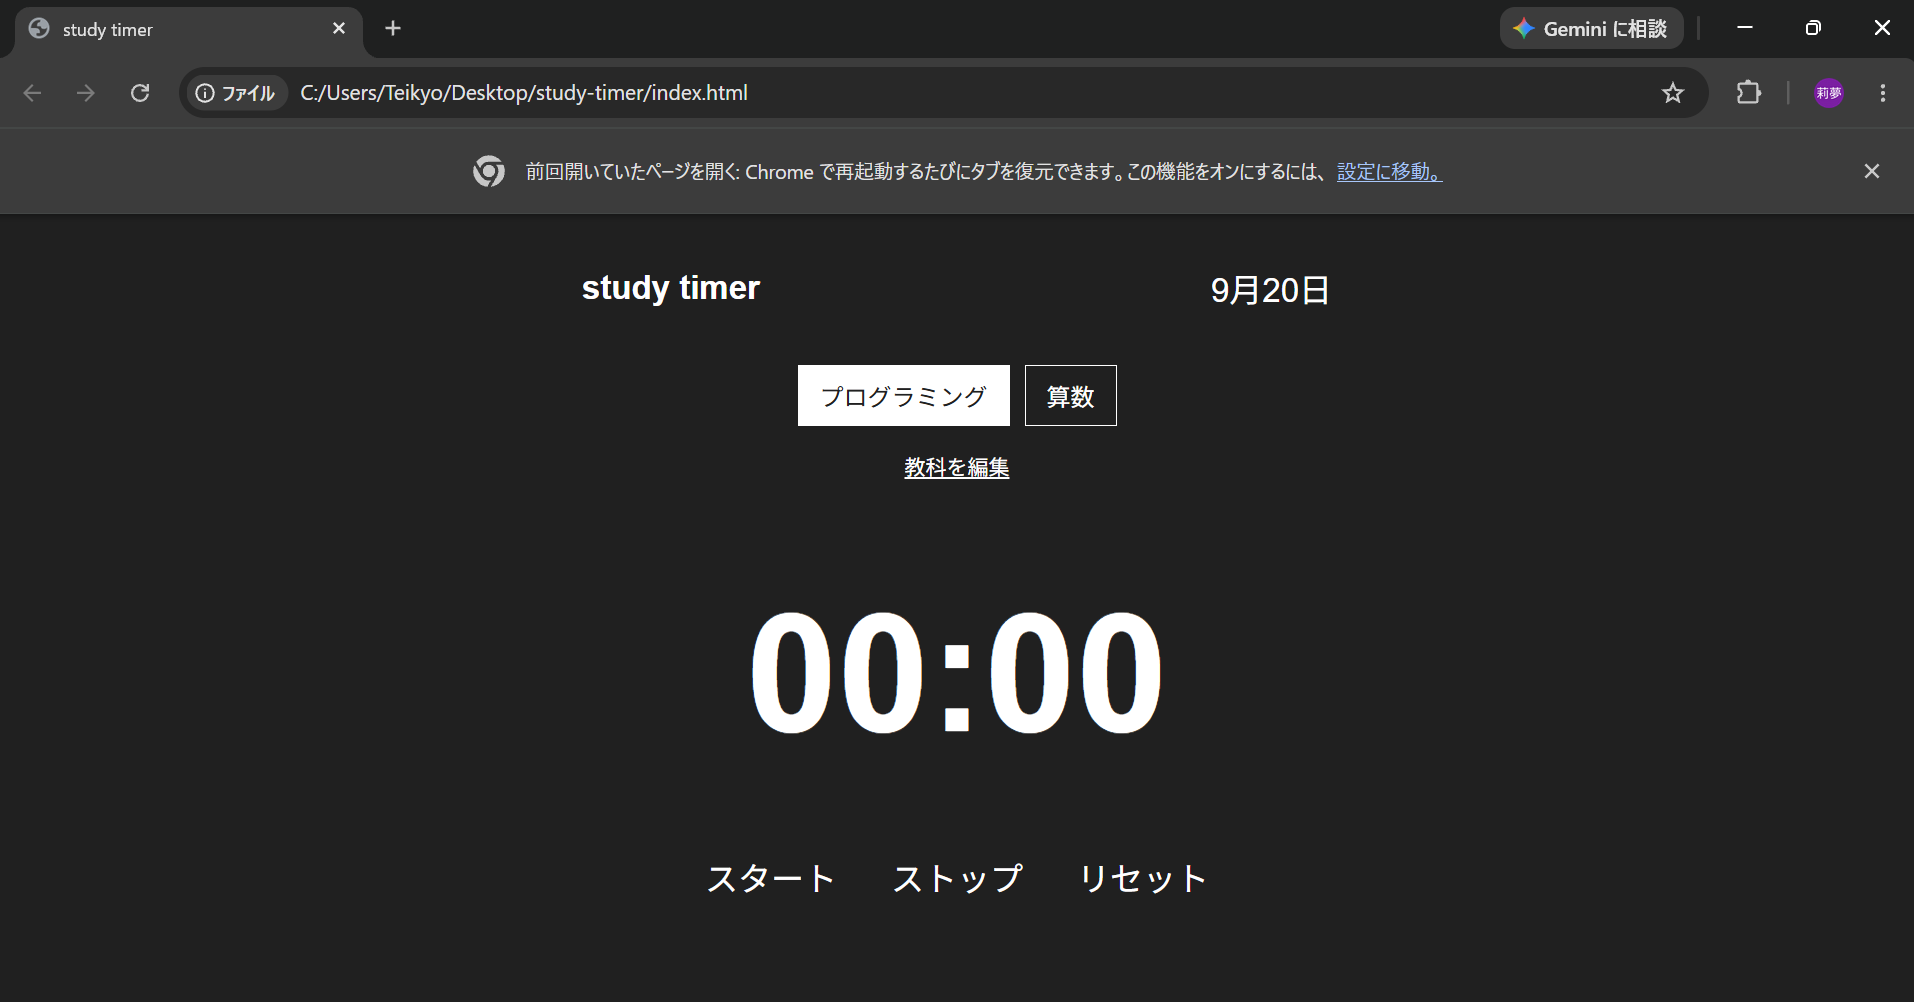
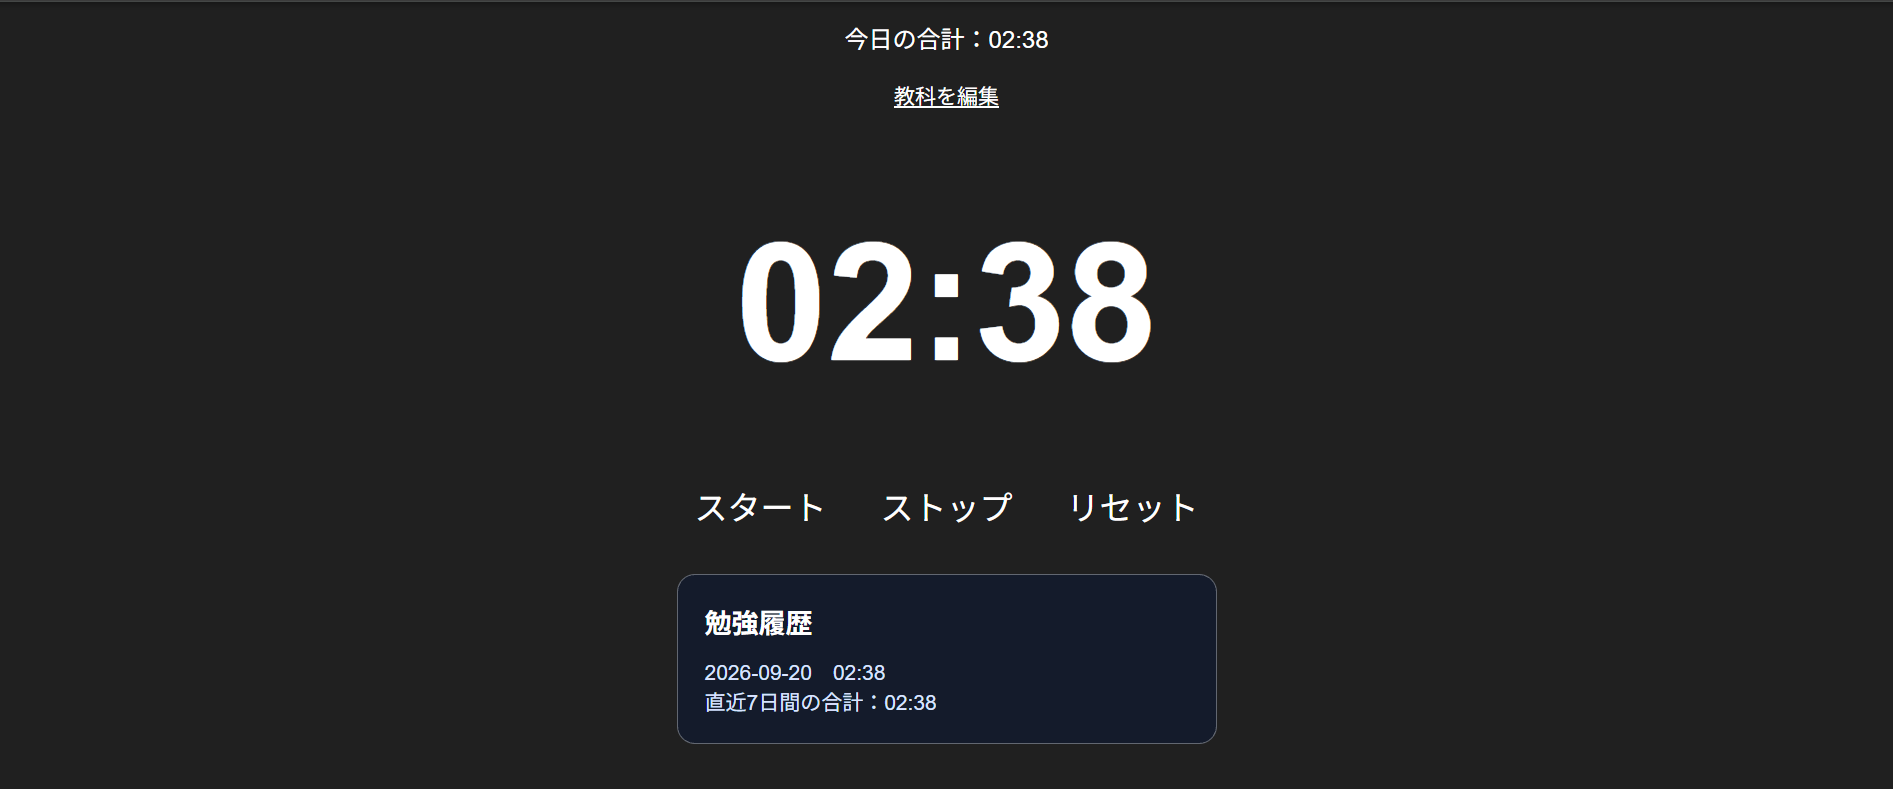
READMEと画面画像を更新

diff --git a/README.md b/README.md
@@ -8,6 +8,8 @@
 
 勉強の進捗を視覚的に確認できることで、毎日の勉強を少し楽しく続けられるアプリを目指しました。
 
+![study timerの画面](screenshot.png)
+
 ## 主な機能
 
 - スタート／ストップによる経過時間の計測
@@ -17,6 +19,8 @@
 - ブラウザを更新しても時間を保存
 - 日付が変わると時間をリセット
 - 合計勉強時間に応じて星座が完成する機能
+- 日ごとの勉強履歴を直近7日分表示
+- 直近7日間の合計勉強時間を表示
 
 ## 使用技術
 
